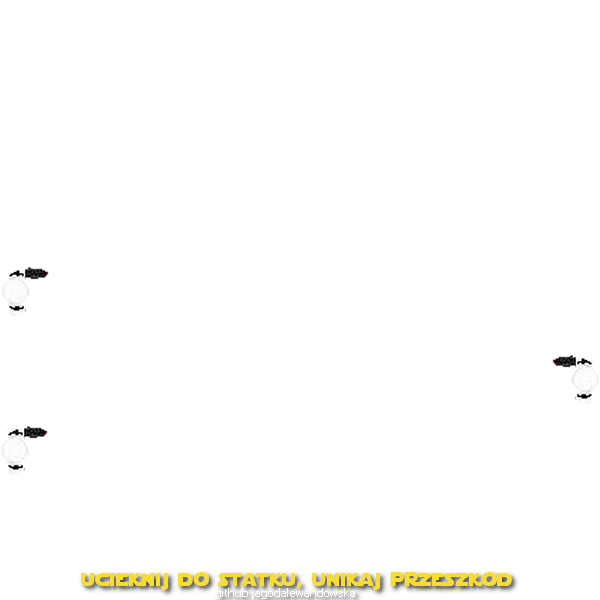
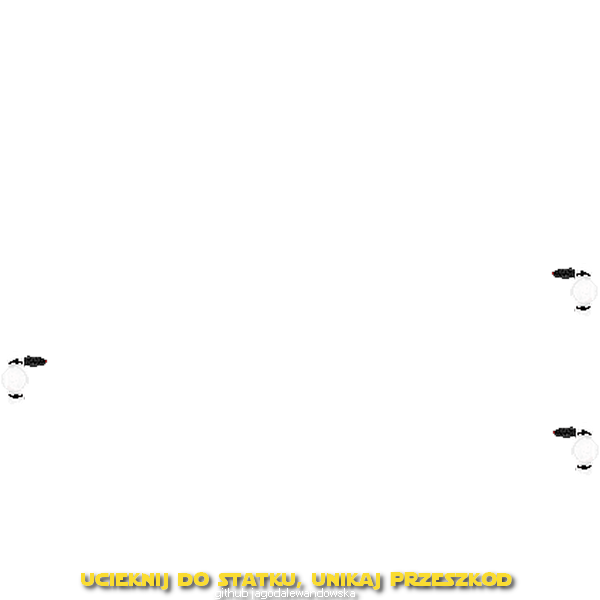
Zmiana kierunków

diff --git a/Lab4/js/obstacles.js b/Lab4/js/obstacles.js
@@ -83,7 +83,7 @@ function initObstacles() {
         /* Przekazywanie do nowego obiektu typu obstacle, tworzy nowy, pusty obiekt
         nadając poprzednie wartości. Wartość y to wysokość ramki odjąć jedno przejście
         a także różnica dla marginesu na dole. Trzecia wartość zmienia np. szerokość */
-        bulletsArray.push(new Obstacle(x, canvas.height - grid * 2 - 20, grid * 2, grid, 1, 'bullets'));
+        bulletsArray.push(new Obstacle(x, canvas.height - grid * 2 - 20, grid * 2, grid, -3, 'bullets'));
     }
 
     /* Druga linia - obiekty w przeciwnym kierunku */
@@ -91,21 +91,21 @@ function initObstacles() {
         /* Zachowanie odstępu */
         let x = i * 300;
         /* Przeciwny kierunek */
-        bulletsArray.push(new Obstacle(x, canvas.height - grid * 3 - 20, grid * 2, grid, -2, 'bullets'));
+        bulletsArray.push(new Obstacle(x, canvas.height - grid * 3 - 20, grid * 2, grid, 1, 'bullets'));
     }
 
     /* Trzecia linia */
     for (let i = 0; i < 2; i++) {
         /* Zachowanie odstępu */
         let x = i * 400;
-        bulletsArray.push(new Obstacle(x, canvas.height - grid * 4 - 20, grid * 2, grid, 2, 'bullets'));
+        bulletsArray.push(new Obstacle(x, canvas.height - grid * 4 - 20, grid * 2, grid, -1, 'bullets'));
     }
 
     /* Czwarta linia */
     for (let i = 0; i < 2; i++) {
         /* Zachowanie odstępu */
         let x = i * 400;
-        platformsArray.push(new Obstacle(x, canvas.height - grid * 5 - 20, grid * 2, grid, -2, 'platforms'));
+        platformsArray.push(new Obstacle(x, canvas.height - grid * 5 - 20, grid * 2, grid, -3, 'platforms'));
     }
 
     /* Piąta linia */
